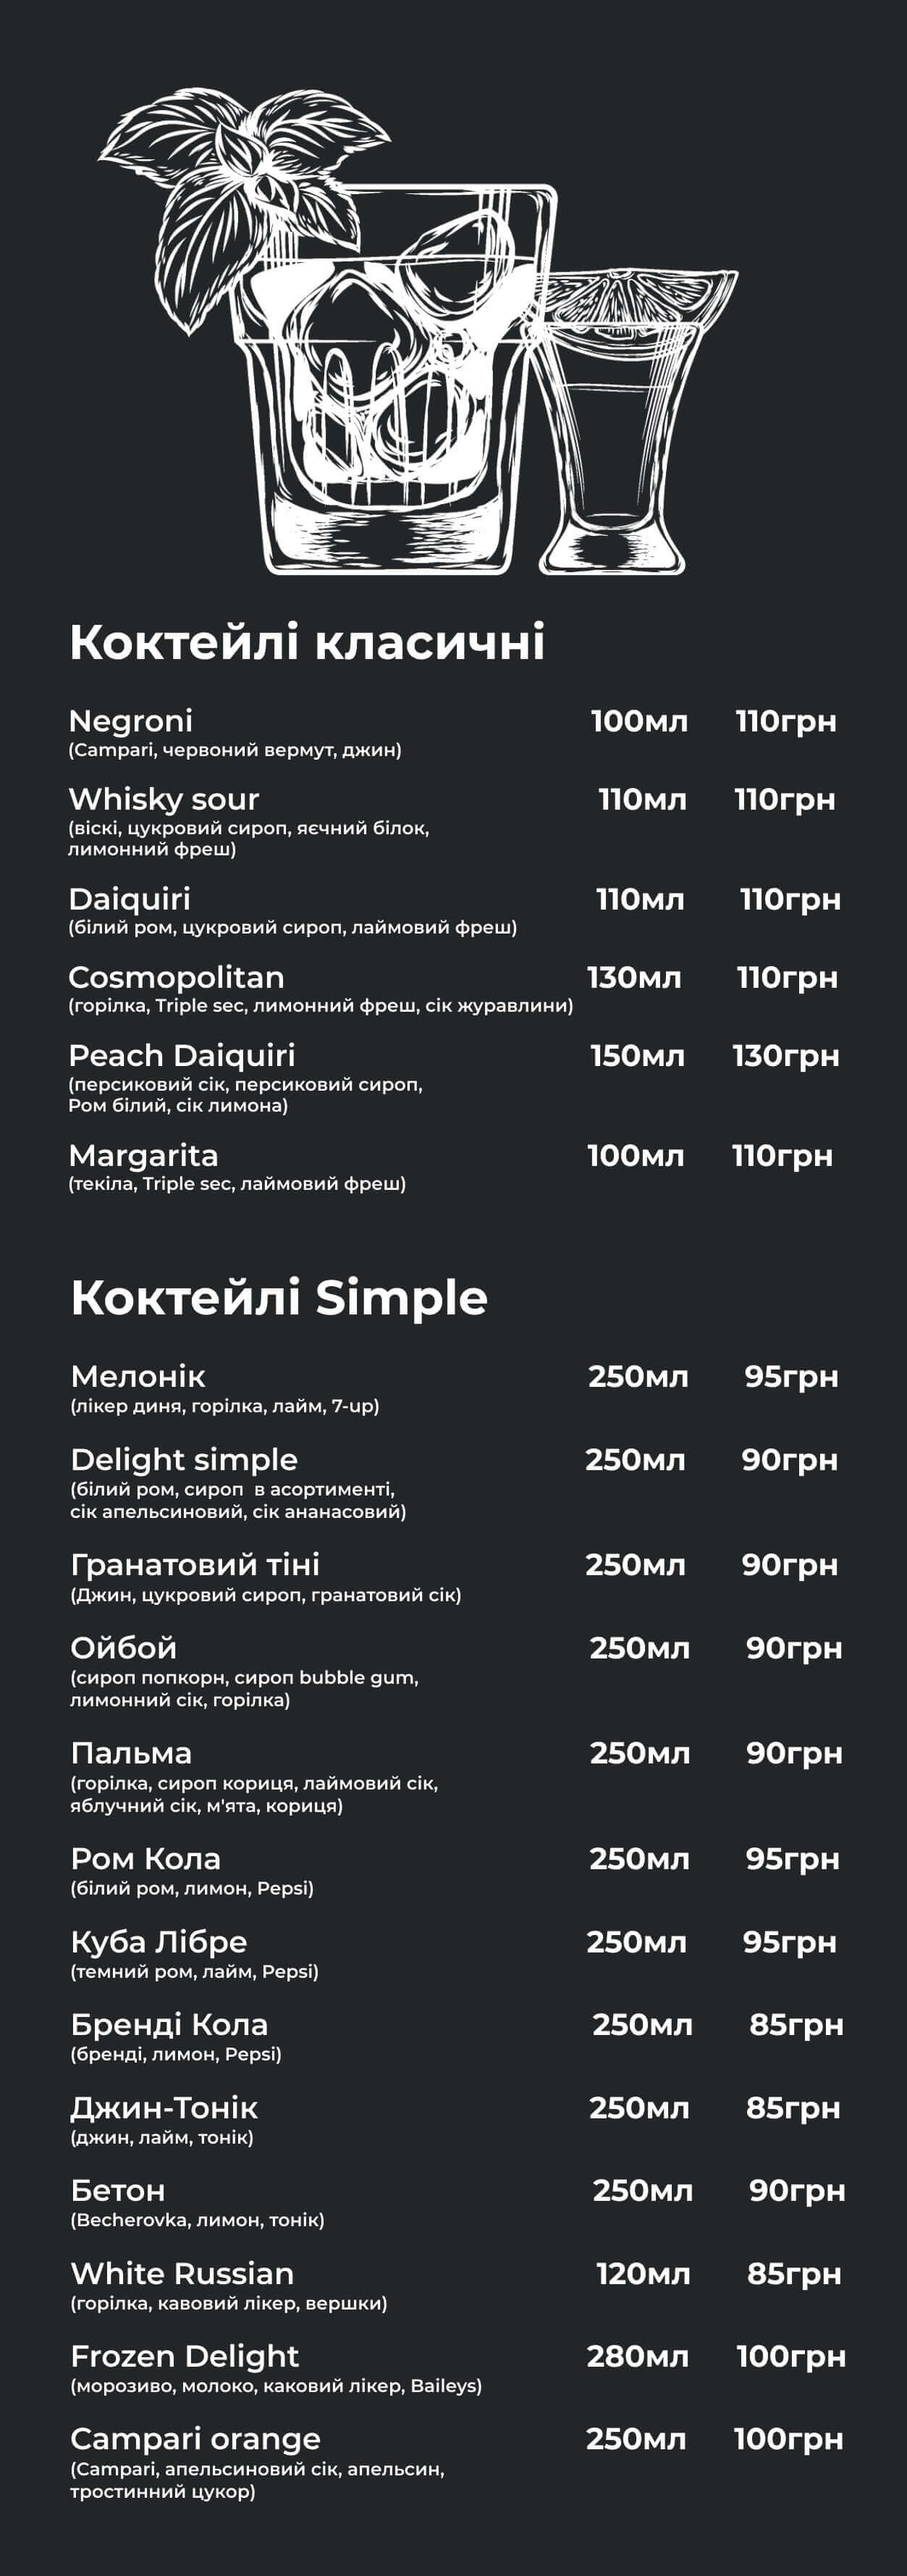
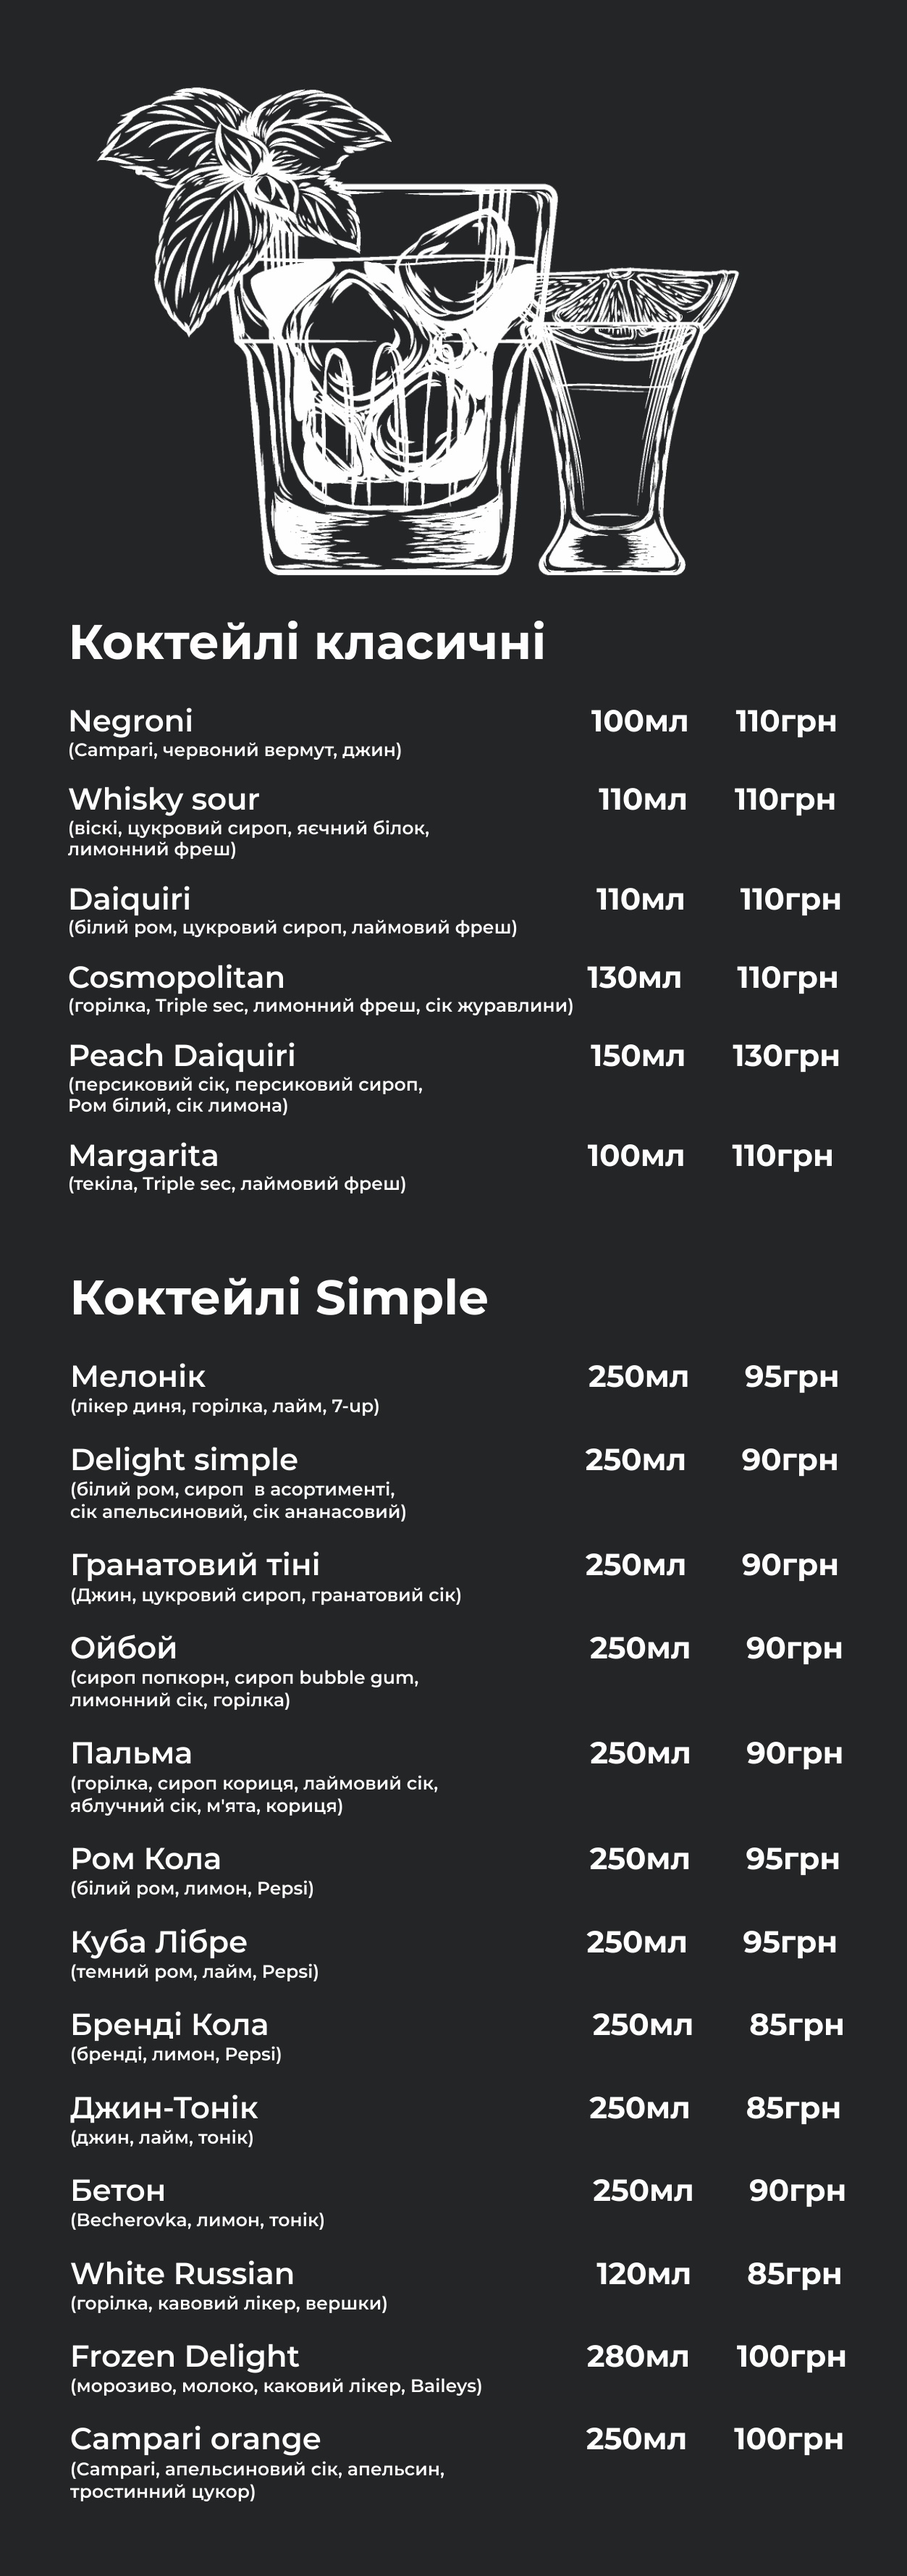
13

diff --git a/menu.css b/menu.css
@@ -8,7 +8,7 @@ body{
     /* zoom: 33%; */
 }
 .menuPic{
-    max-width: 30%;
+    width: min-content;
 }
 header{
   box-sizing: content-box;
